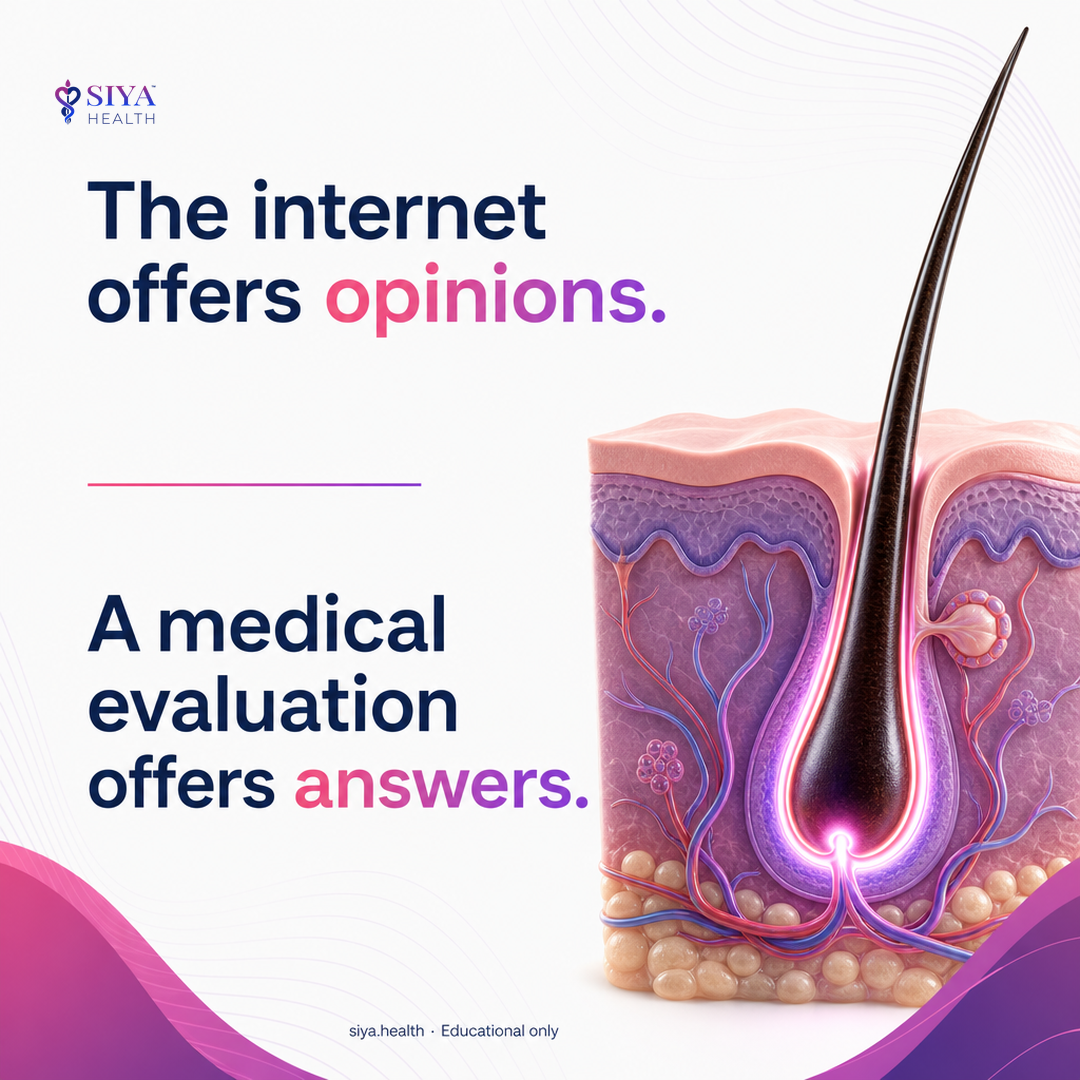
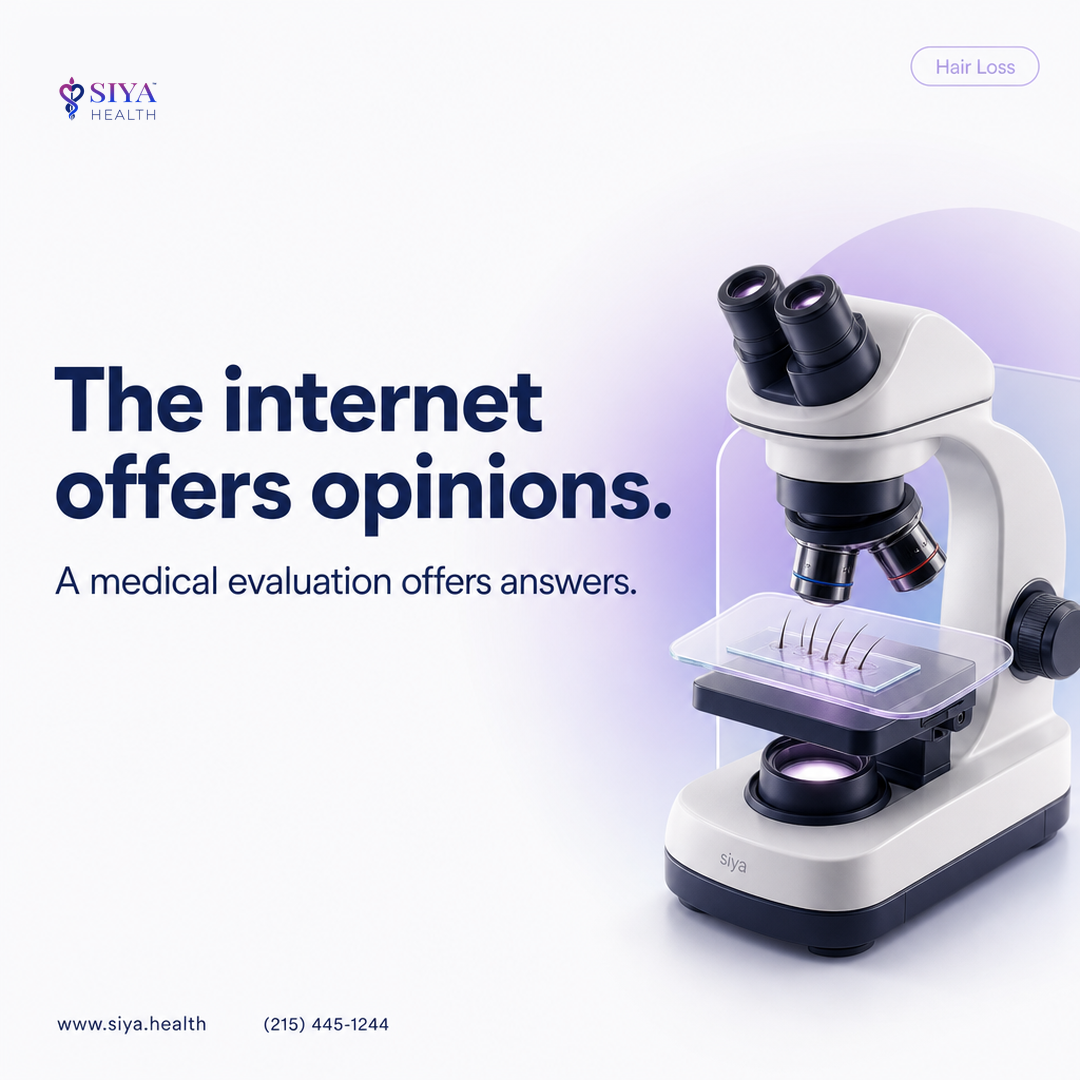
feat(siya-health): premium editorial hair opinions Instagram static
Asymmetrical 1080 campaign static — microscope hero, Hair Loss tag,
navy type on off-white; not Canva/infographic.

diff --git a/apps/siya-health/brand/06-Statics/HAIR-2026-07-23-internet-opinions/static.md b/apps/siya-health/brand/06-Statics/HAIR-2026-07-23-internet-opinions/static.md
@@ -1,20 +1,23 @@
 # Static — HAIR-2026-07-23-internet-opinions
 
-Aligned to **`SIYA-SOCIAL-POST-STYLE.md`** (restored graphic brand system, 2026-07-23).
+Premium campaign static (1080×1080). Editorial healthcare — not Canva / not infographic.
 
 ## On-image (locked)
 
-**Logo:** Top-left corner only — real Siya logo. **No background watermark.**  
-**Style:** Off-white · navy sans · pink→purple keyword gradients · magenta corner waves · 3D hair follicle  
-**Line 1:** The internet offers **opinions.**  
-**Large gap**  
-**Line 2:** A medical evaluation offers **answers.**  
-**Footer:** `siya.health · Educational only`
+**Logo:** Top-left · real Siya Health® mark  
+**Category:** Hair Loss (top-right)  
+**Headline:** The internet offers opinions.  
+**Support:** A medical evaluation offers answers.  
+**Hero:** One premium 3D microscope + hair-strand slide (unique vs prior follicle/dropper posts)  
+**Footer:** www.siya.health · (215) 445-1244  
+
+## Style notes
+- Off-white `#FAFAFC` · navy `#1E2A5A` type  
+- Asymmetrical · large whitespace · subtle purple glow only behind hero  
+- No cards, icon rows, emoji, or clipart  
 
 ## Assets
-
 | File | Use |
 |------|-----|
-| `static-ig-square.png` | Instagram / FB square |
-| `static-landscape.png` | LinkedIn / FB / X |
+| `static-ig-square.png` | Instagram primary |
 | `ready-to-post/*` | Post from here |

diff --git a/apps/siya-health/editorial-packs/HAIR-2026-07-23-internet-opinions/static.md b/apps/siya-health/editorial-packs/HAIR-2026-07-23-internet-opinions/static.md
@@ -1,20 +1,23 @@
 # Static — HAIR-2026-07-23-internet-opinions
 
-Aligned to **`SIYA-SOCIAL-POST-STYLE.md`** (restored graphic brand system, 2026-07-23).
+Premium campaign static (1080×1080). Editorial healthcare — not Canva / not infographic.
 
 ## On-image (locked)
 
-**Logo:** Top-left corner only — real Siya logo. **No background watermark.**  
-**Style:** Off-white · navy sans · pink→purple keyword gradients · magenta corner waves · 3D hair follicle  
-**Line 1:** The internet offers **opinions.**  
-**Large gap**  
-**Line 2:** A medical evaluation offers **answers.**  
-**Footer:** `siya.health · Educational only`
+**Logo:** Top-left · real Siya Health® mark  
+**Category:** Hair Loss (top-right)  
+**Headline:** The internet offers opinions.  
+**Support:** A medical evaluation offers answers.  
+**Hero:** One premium 3D microscope + hair-strand slide (unique vs prior follicle/dropper posts)  
+**Footer:** www.siya.health · (215) 445-1244  
+
+## Style notes
+- Off-white `#FAFAFC` · navy `#1E2A5A` type  
+- Asymmetrical · large whitespace · subtle purple glow only behind hero  
+- No cards, icon rows, emoji, or clipart  
 
 ## Assets
-
 | File | Use |
 |------|-----|
-| `static-ig-square.png` | Instagram / FB square |
-| `static-landscape.png` | LinkedIn / FB / X |
+| `static-ig-square.png` | Instagram primary |
 | `ready-to-post/*` | Post from here |
